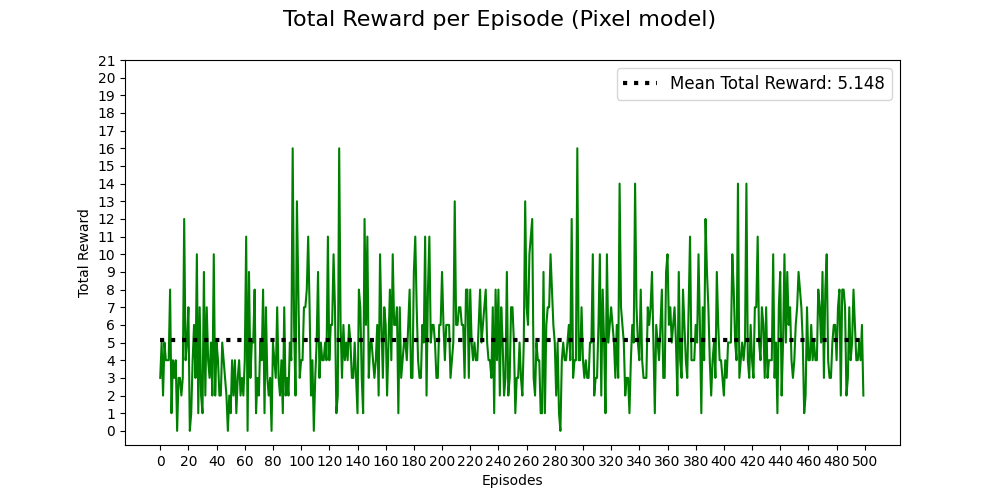
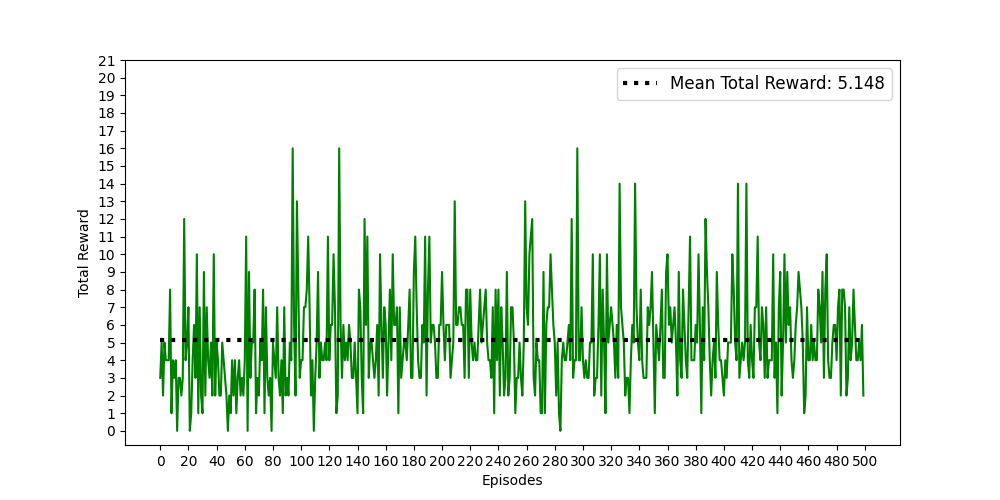
small changes to files

Changed region(s): [[0.279, 0.0, 0.713, 0.06]]

diff --git a/pixel.py b/pixel.py
@@ -92,7 +92,7 @@ class QLearningAgent():
         self.final_exploration_frame = 100000
         self.loss_val = np.infty  # initialize loss_val
         self.error_val = np.infty
-        self.replay_buffer = PrioritizedReplayBuffer(maxlen=100000)  # exerience buffer
+        self.replay_buffer = PrioritizedReplayBuffer(maxlen=100000)  # experience buffer
         self.tau = 0.001
 
         tf.reset_default_graph()
@@ -101,11 +101,10 @@ class QLearningAgent():
         # observation variable - takes shape 96 by 80
         self.X_state = tf.placeholder(tf.float32, shape=[None, 96, 80, 1])
         # create two deep neural network - one for main model one for target model
-        self.main_q_values, self.main_vars = self.create_model(self.X_state, name="main")  # main learns from target then target gets updated to main
-        self.target_q_values, self.target_vars = self.create_model(self.X_state, name="target")  # we will use the main network to update this one
+        self.main_q_values, self.main_vars = self.create_model(self.X_state, name="main")
+        self.target_q_values, self.target_vars = self.create_model(self.X_state, name="target")
 
-        # update the target network to have same weights of the main network
-        # loop through each item in 'target_vars' and grab a list of the values we are going to change - this is the operations list
+        # update the target network to have the same weights as the main network
         self.copy_ops = [targ_var.assign(self.main_vars[targ_name]) for targ_name, targ_var in self.target_vars.items()]
         self.copy_online_to_target = tf.group(*self.copy_ops)  # group to apply the operations list
 
@@ -118,17 +117,14 @@ class QLearningAgent():
 
             self.q_value = tf.reduce_sum(self.main_q_values * tf.one_hot(self.X_action, self.action_size), axis=1)
 
-            # used to make the target of q table close to real value
+            # calculate error and loss function
             self.error = self.y - self.q_value
-            # TODO - importance sampling with huber loss ask
             self.loss = tf.reduce_mean(tf.multiply(tf.losses.huber_loss(self.y, self.q_value, reduction='none'), self.importance))
-            # self.loss = tf.reduce_mean(tf.multiply(tf.square(self.error), self.importance))
-            # an alternative to above would just be error squared - to avoid exploiding we use linear error and clipping (this is an optimization)
 
             # global step to remember the number of times the optimizer was used
             self.global_step = tf.Variable(0, trainable=False, name='global_step')
             self.optimizer = tf.train.AdamOptimizer(self.learning_rate)
-            # to take the optimizer and tell it to minimize the loss, the function will also add +1 to global_step at each iteration
+            # tell optimizer to minimize loss, the function will also add +1 to global_step at each iteration
             self.training_op = self.optimizer.minimize(self.loss, global_step=self.global_step)
 
         # saving the session - if u close the notebook it will load back the previous model

diff --git a/evaluation.py b/evaluation.py
@@ -34,7 +34,7 @@ def show_result(filename, title, colour):
     mean = sum(data)/len(data)
 
     fig, ax = plt.subplots(figsize=(10, 5))
-    fig.suptitle(title, fontsize=16)
+    # fig.suptitle(title, fontsize=16)
     ax.plot(data, colour)
     ax.plot([0, 500], [mean, mean], 'k:', lw=3, label='Mean Total Reward: %0.3f' % mean)
     ax.set_ylabel('Total Reward')
@@ -58,10 +58,10 @@ def get_avg(data):
 
 def show_all_results(all_data):
     fig, ax = plt.subplots(figsize=(15, 5))
-    fig.suptitle('Total Reward per Episode (all models)', fontsize=16)
-    ax.plot(all_data[0], 'b', label='RAM - Mean Total Reward: %0.3f' % get_avg(all_data[0]))
-    ax.plot(all_data[1], 'g', label='Pixel - Mean Total Reward: %0.3f' % get_avg(all_data[1]))
-    ax.plot(all_data[2], 'm', label='Pixel and RAM - Mean Total Reward: %0.3f' % get_avg(all_data[2]))
+    # fig.suptitle('Total Reward per Episode (all models)', fontsize=16)
+    ax.plot(all_data[0], '-bo', lw=1, markersize=1, label='RAM - Mean Total Reward: %0.3f' % get_avg(all_data[0]))
+    ax.plot(all_data[1], '-go', lw=1, markersize=1, label='Pixel - Mean Total Reward: %0.3f' % get_avg(all_data[1]))
+    ax.plot(all_data[2], '-mo', lw=1, markersize=1, label='Pixel and RAM - Mean Total Reward: %0.3f' % get_avg(all_data[2]))
     # ax.plot([0, 500], [mean, mean], 'k:', lw=3, label='Mean Total Reward')
     ax.set_ylabel('Total Reward')
     ax.set_xlabel('Episodes')
